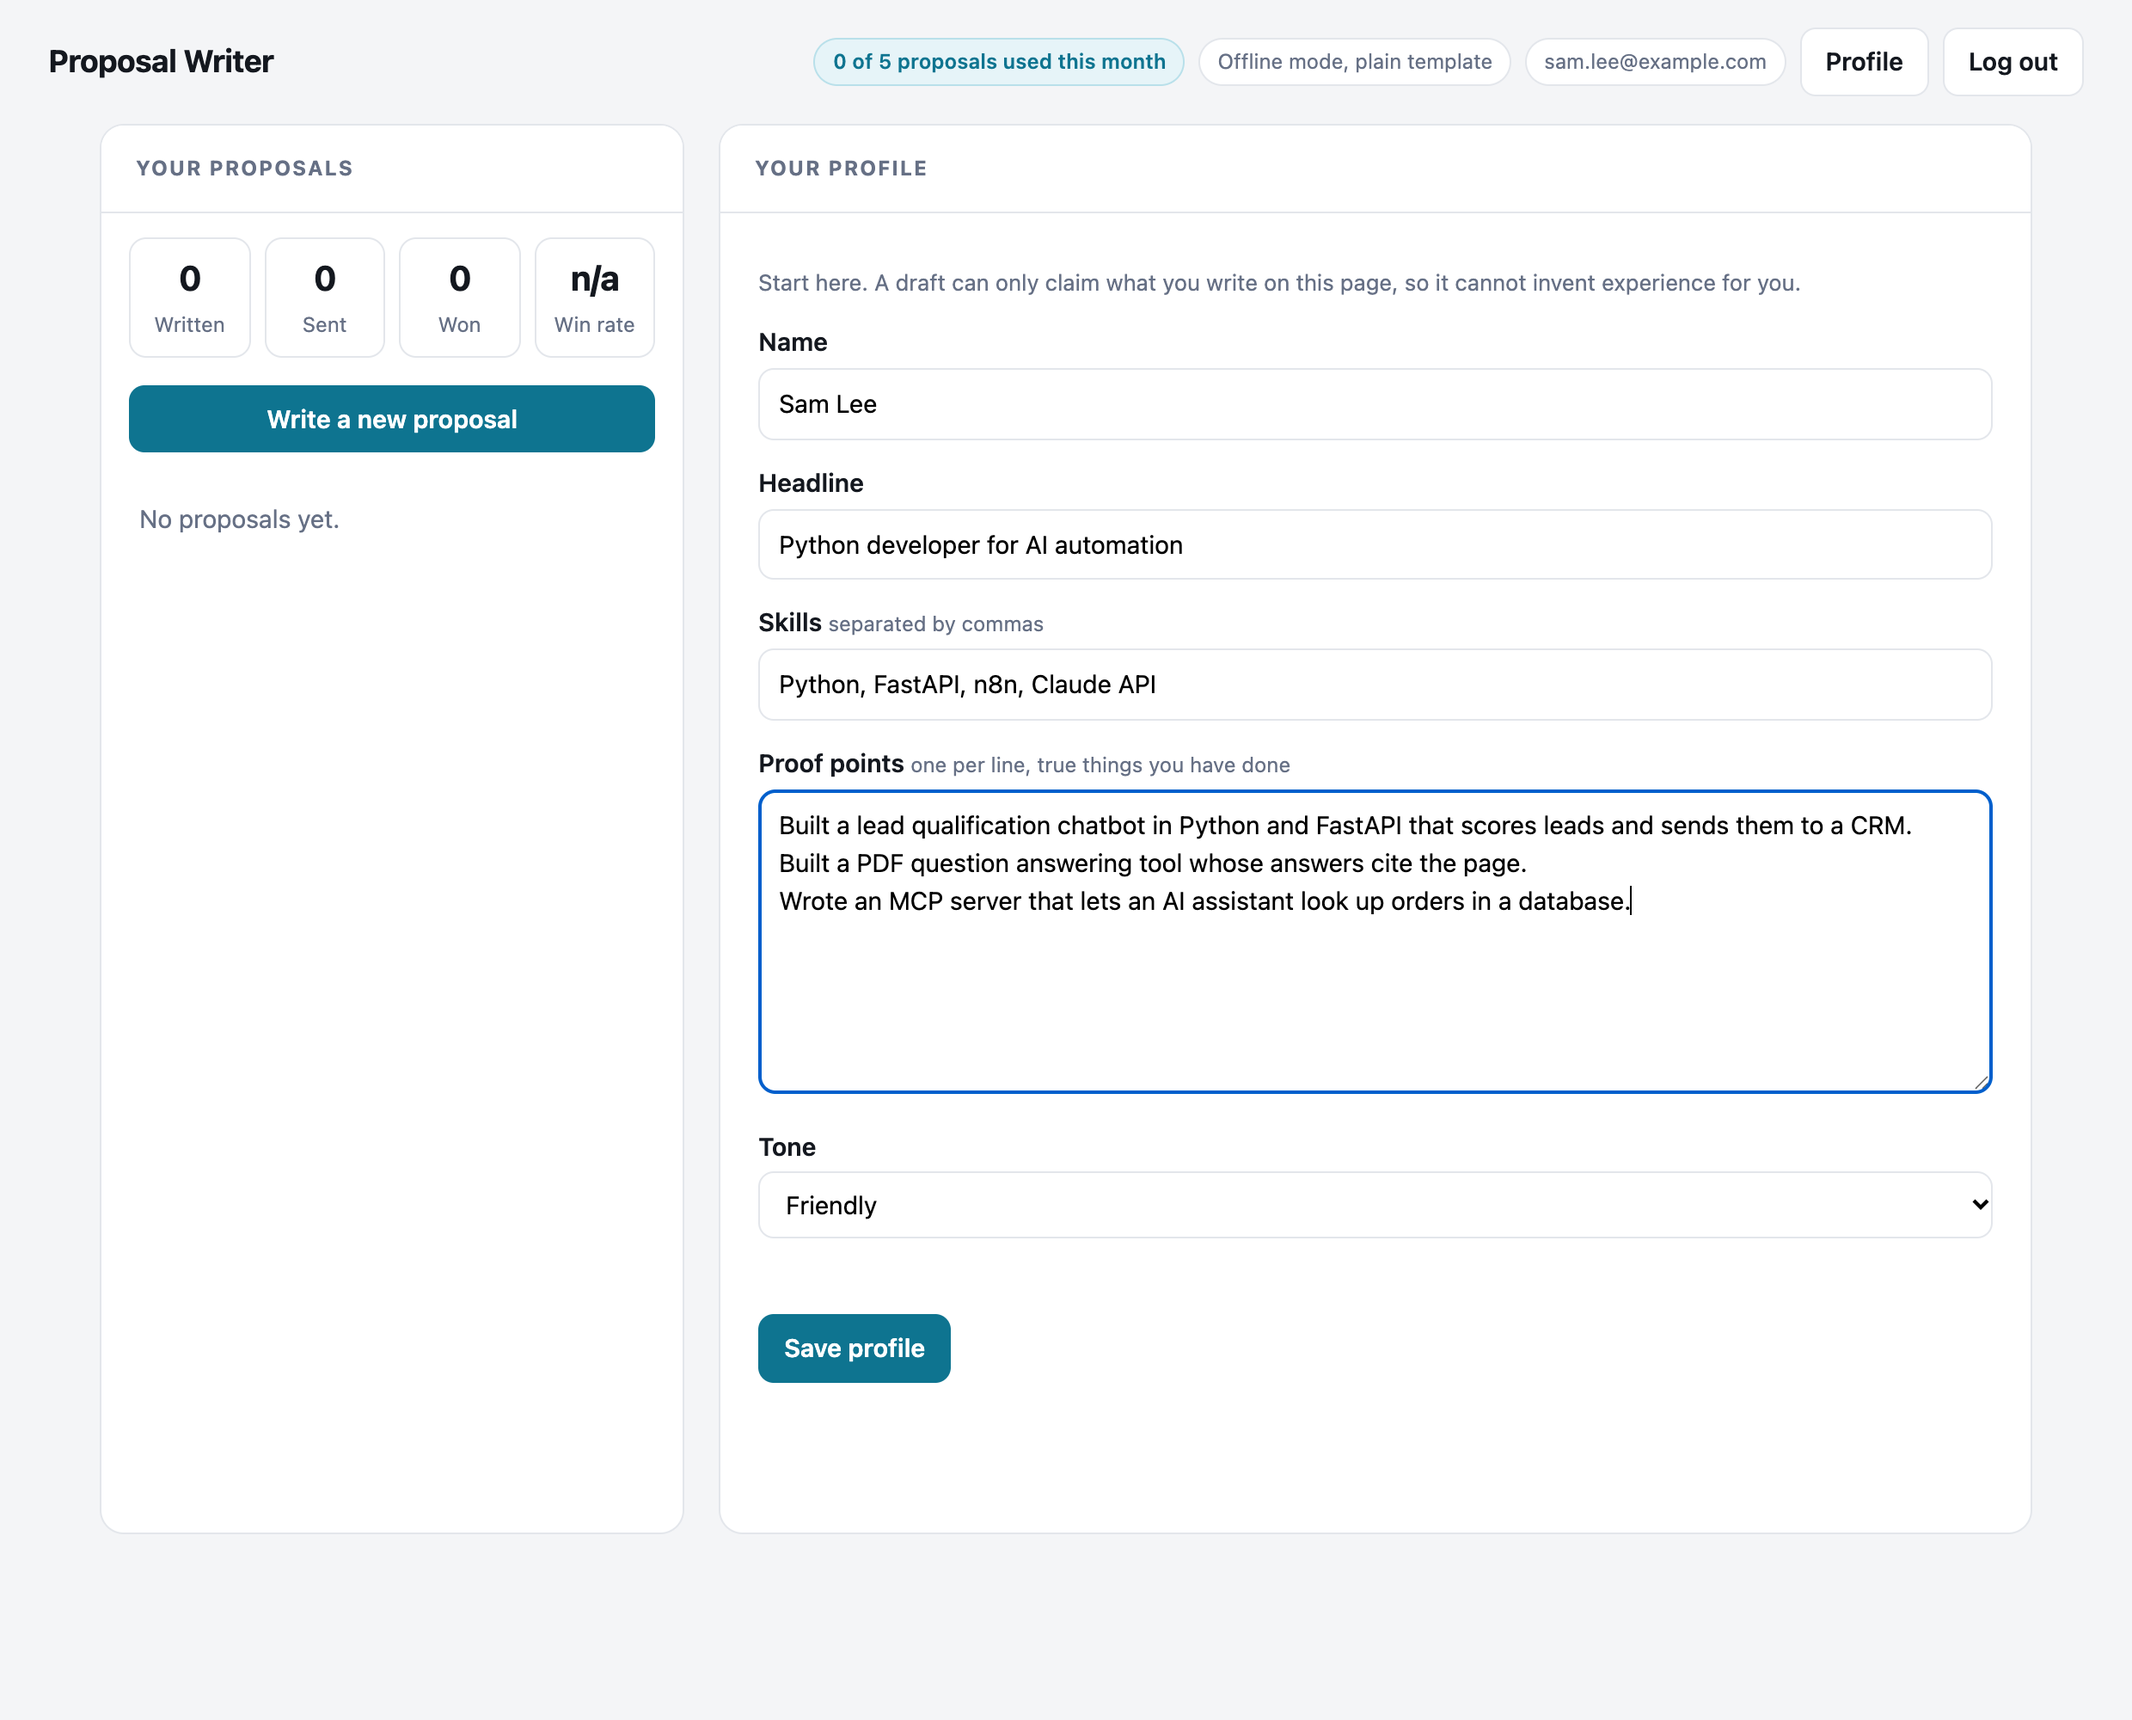
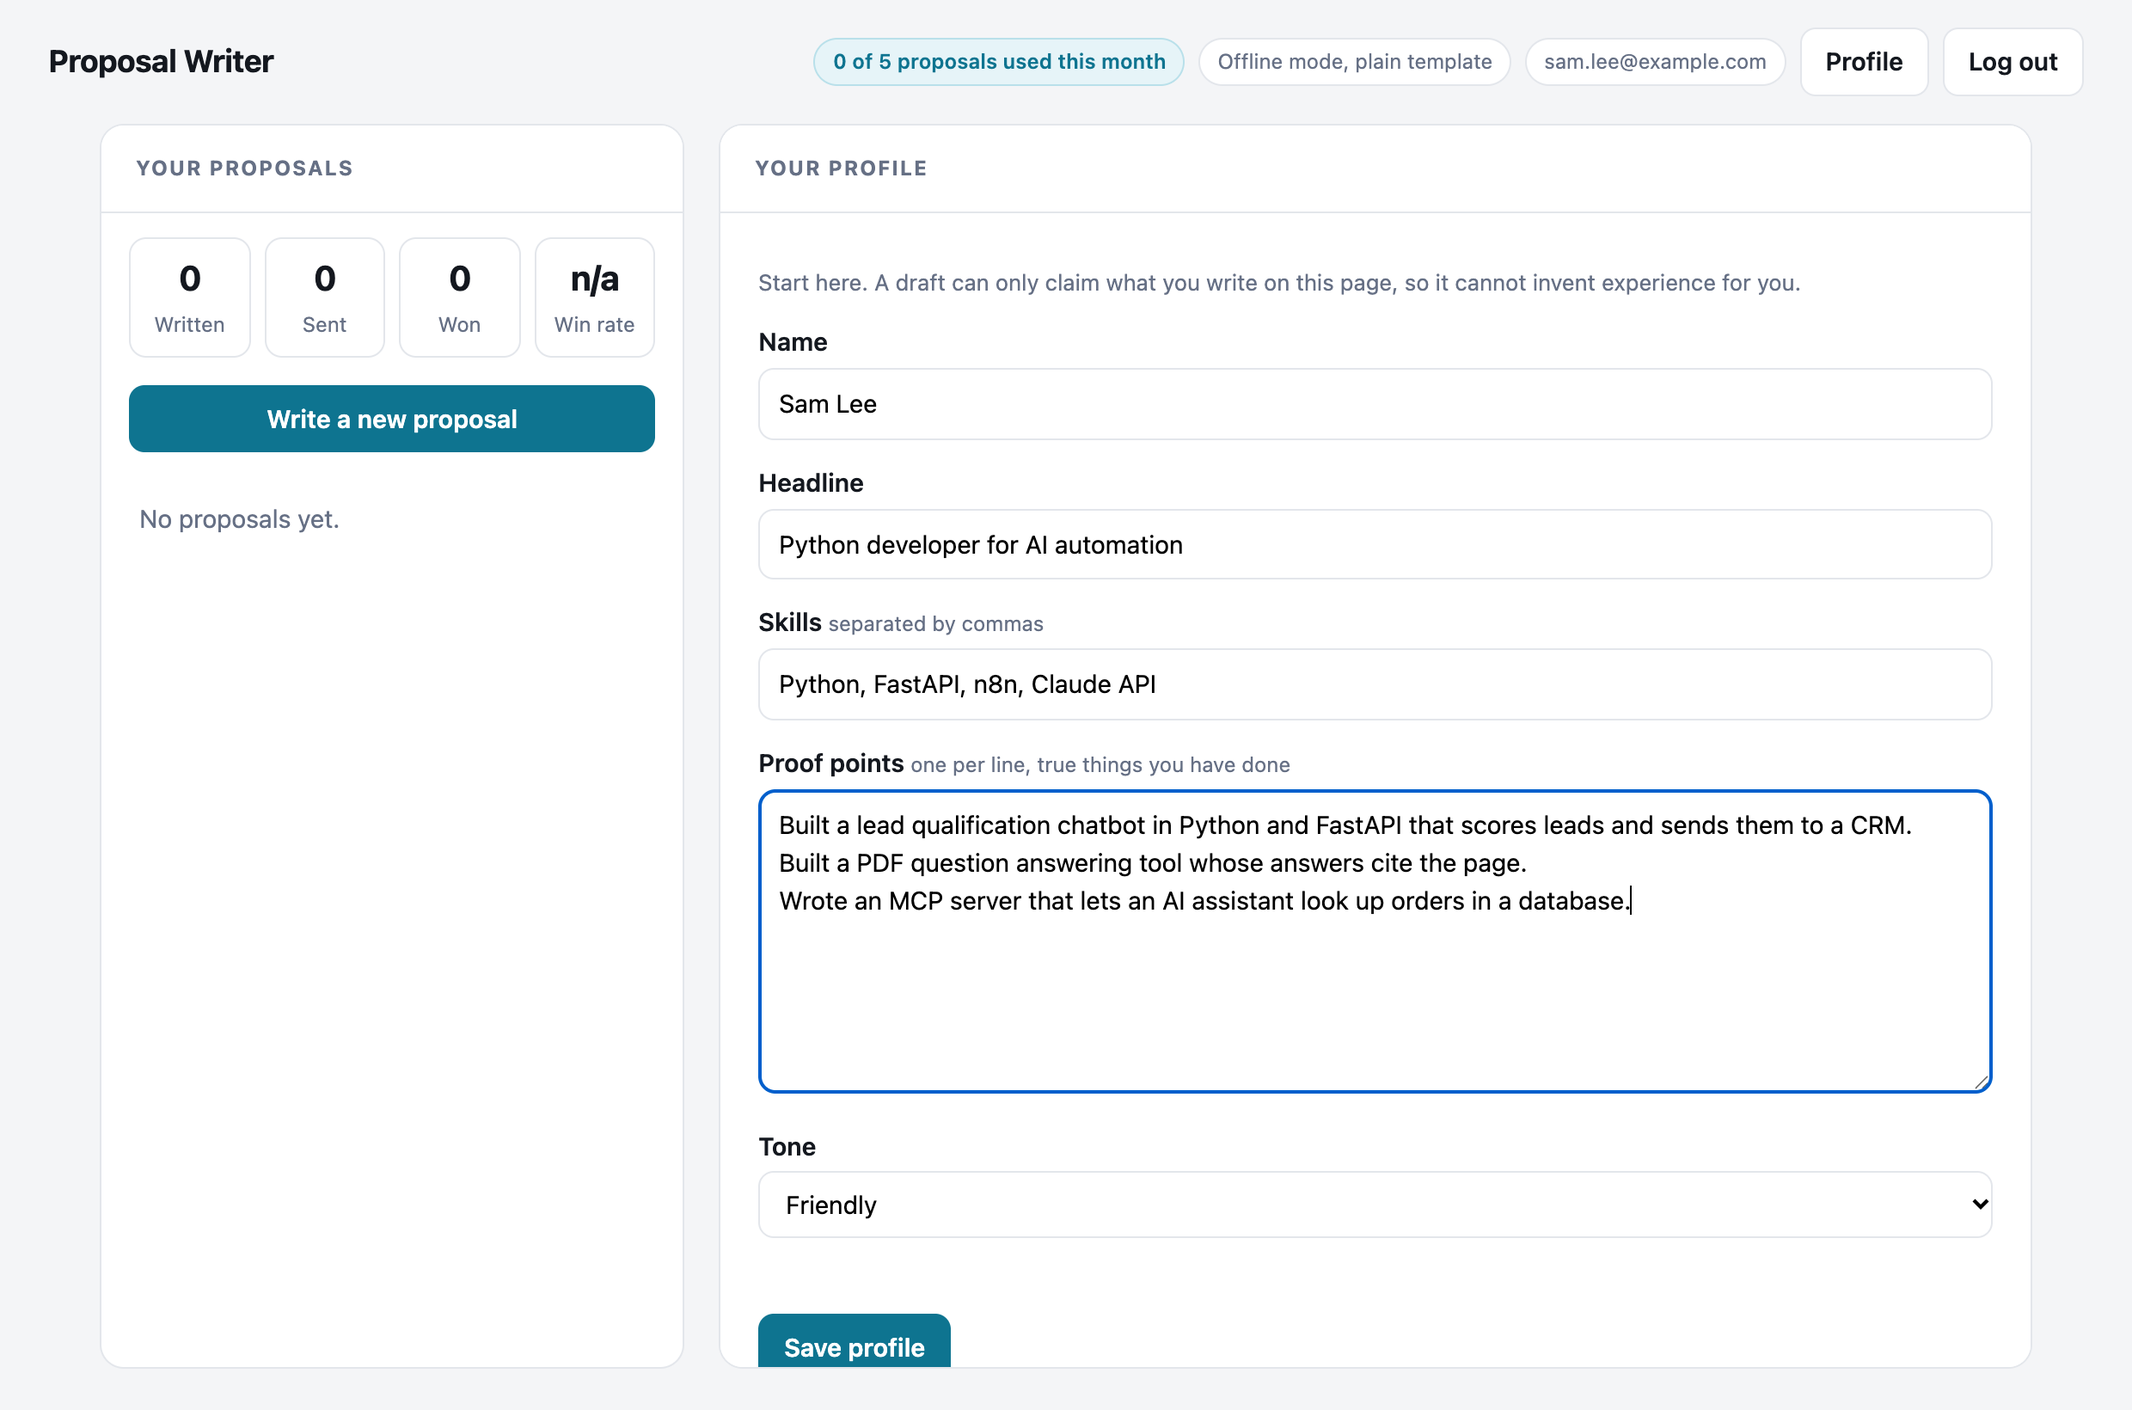
Shorter draft box and retaken screenshots

diff --git a/static/index.html b/static/index.html
@@ -170,7 +170,7 @@ async function editor(id) {
   const f = el("div", "form"); $("work").innerHTML = ""; $("work").appendChild(f);
   const title = input(p.title);
   const status = el("select"); ["draft", "sent", "won", "lost"].forEach((s) => { const o = el("option", "", s); o.value = s; status.appendChild(o); }); status.value = p.status;
-  const body = el("textarea"); body.rows = 16; body.value = p.body;
+  const body = el("textarea"); body.rows = 12; body.value = p.body;
   f.append(field("Title", title), field("Draft", body), field("Status", status));
   if (p.warnings.length) { const w = el("div", "warn"); p.warnings.forEach((t) => w.appendChild(el("p", "", t))); f.insertBefore(w, f.children[2]); }
   const msg = el("span", "note"); const save = el("button", "btn primary", "Save");
